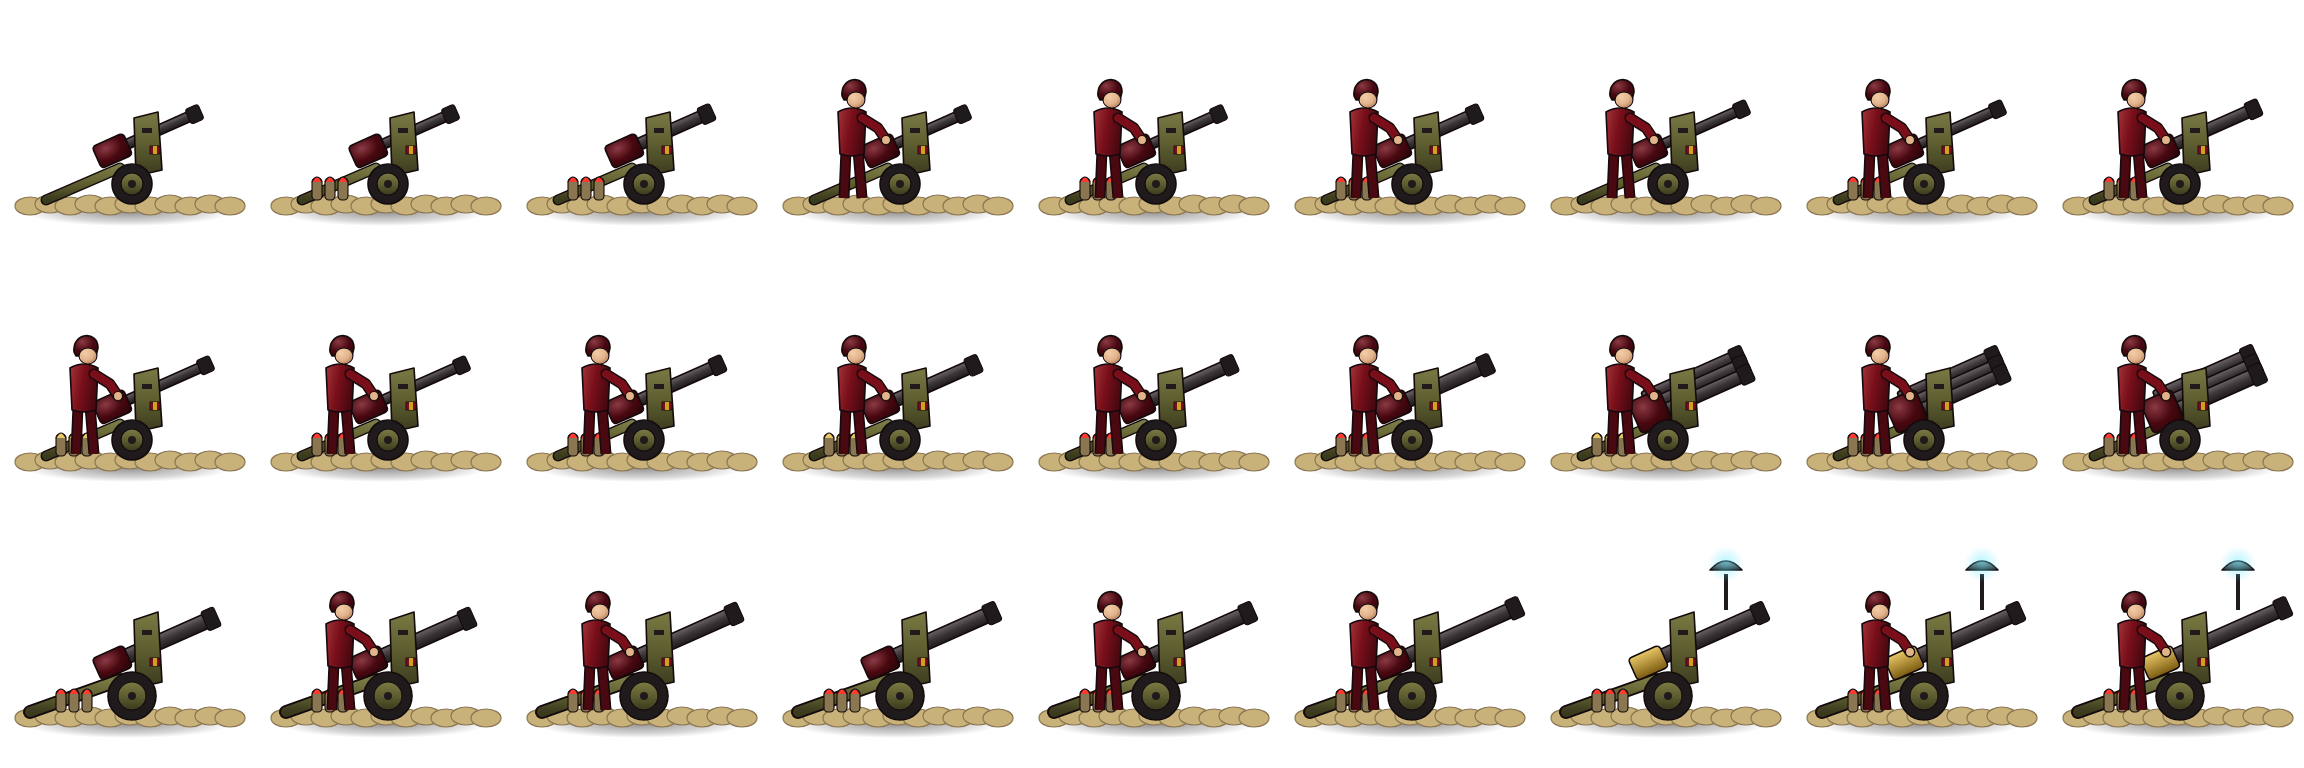
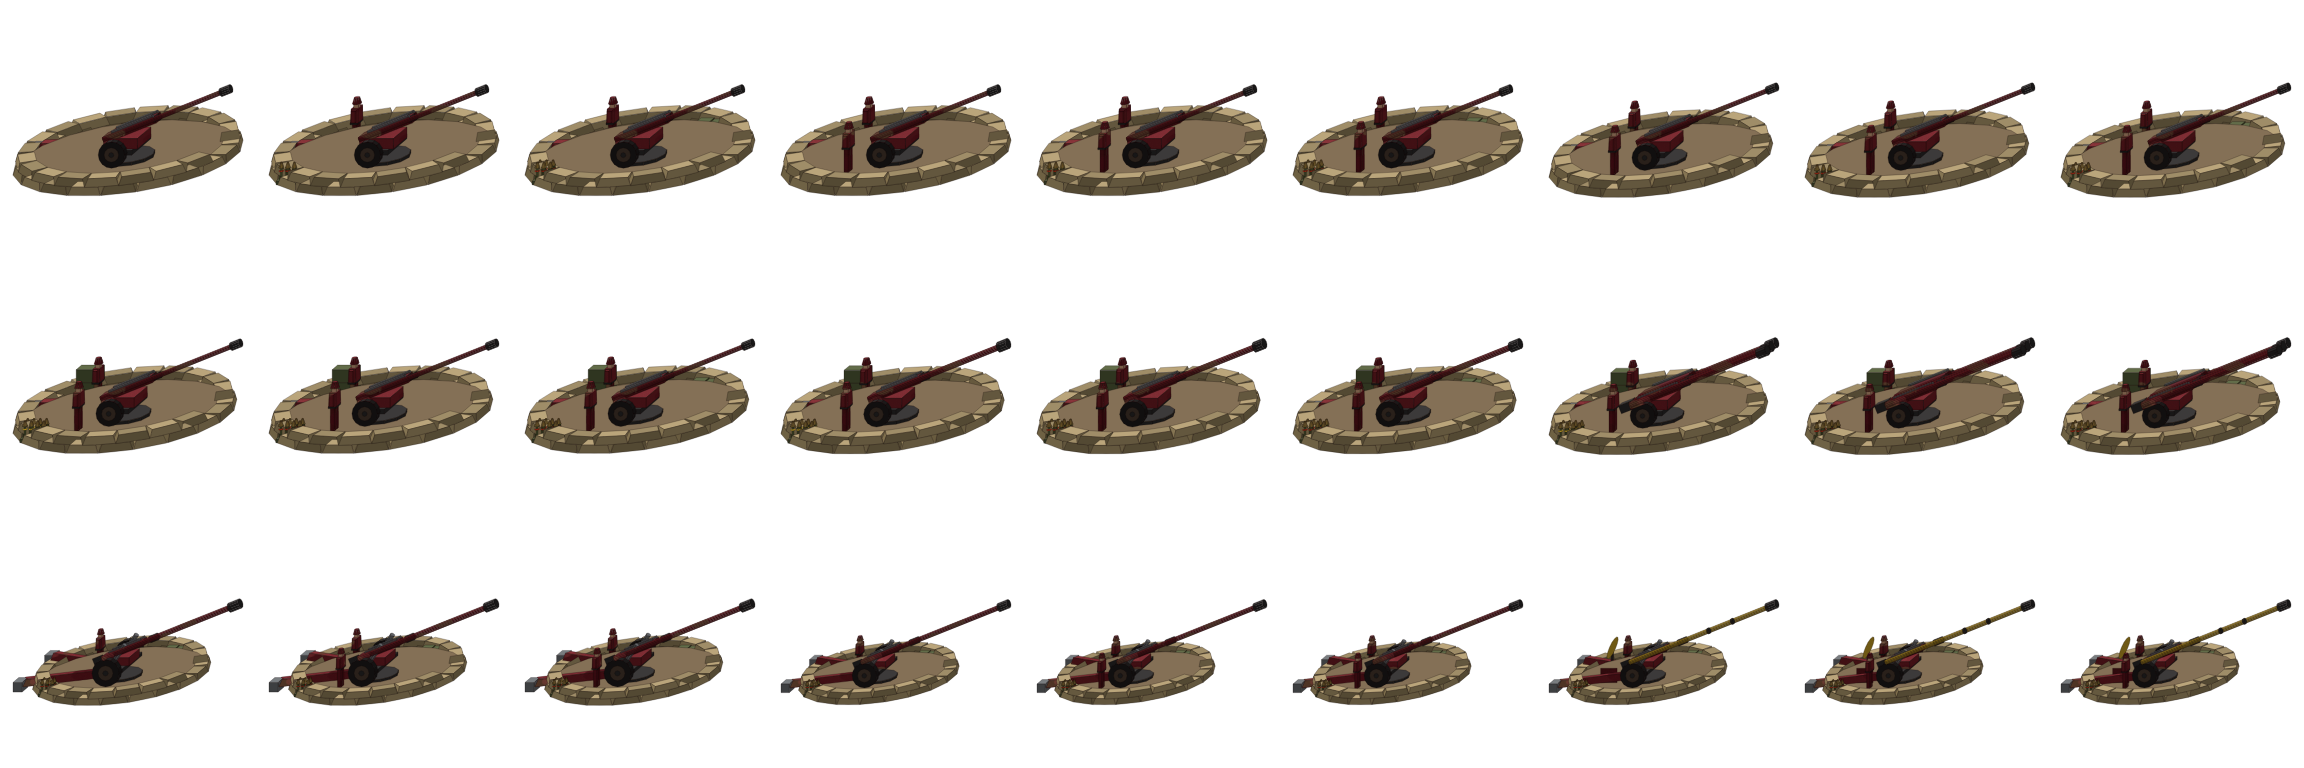
Artillerie im neuen Detailstil (alle 27 Stufen)
Claude-Session: https://claude.ai/code/session_01H2UiKssafjRzK7unKsx8yK

diff --git a/index.html b/index.html
@@ -128,6 +128,6 @@ button{touch-action:manipulation}#feld{touch-action:none}
   <div id="toast" role="status" aria-live="polite" style="position:absolute;left:570px;top:96px;transform:translateX(-50%);display:none;z-index:5;background:#2B0509;border:2px solid #C9A227;border-radius:12px;padding:12px 20px;font-weight:800;font-size:17px;color:#E8C766;white-space:nowrap"></div>
   <div id="overlay"><div class="karte" id="overlayInhalt"></div></div>
 </div>
-<script src="spiel.js?v=2026-11-20-12"></script>
+<script src="spiel.js?v=2026-11-20-13"></script>
 </body>
 </html>

diff --git a/spiel.js b/spiel.js
@@ -1,7 +1,7 @@
 // Maiskolbistan Militär-Defense – Testkarte 1 (Westkolbistan)
 // Reines JavaScript, kein Bau-Schritt. Grafiken aus dem Maiskolbistan-Info-Repo (seiten/td-ranger-sprites).
 'use strict';
-const VERSION = '2026-11-20-12';   // bei jedem Update hochzählen (auch in index.html)
+const VERSION = '2026-11-20-13';   // bei jedem Update hochzählen (auch in index.html)
 
 (() => {
   const W = 1140, H = 810, MITTE = 570;

diff --git a/README.md b/README.md
@@ -135,7 +135,7 @@ Anzeige im Spiel: Rauch-, Lawinen- und Sandsturmwolken, eingefrorene Türme (bla
 
 ## Grafikstil (Umstellung läuft)
 
-Der **Ranger** ist im neuen, detaillierteren Stil gezeichnet (nach Fotovorlagen): vorgelehnter Anschlag, Plattenträger, Helm mit Headset, Gewehr in M4-Bauart, Stofftextur und Tarnmuster, Licht von oben links. Stufen: Präzision 1 Laservisier (Strahl) · 2 Elite (Zielfernrohr, goldene Winkel) · 3 Nachtsichtgerät · 4 schweres Gewehr (langer Lauf, Zweibein) · 5 leichtes MG mit Patronenkasten. Sturm 1 Goldspitzen-Munition · 2 Waffenlicht · 3 Schulter-, Hals- und Leistenschutz · 4 Granatwerfer und Handgranaten · 5 Sturmhaube mit Visier. Der **Scharfschütze** ist ebenfalls umgestellt (kniender Anschlag, Ellbogen auf dem Knie, Gewehr in M110-Bauart): Phantom 1 Buschhut + Tarnschminke · 2 Wärmebild-Vorsatz · 3 Schalldämpfer · 4 Ghillie-Kapuze und Tarnstreifen · 5 voller Ghillie mit Maisblättern; Schwerkaliber 1 längerer Lauf · 2 .50-Gewehr mit Mündungsbremse · 3 Helm und Panzerung · 4 Leuchtpistole · 5 Laser-Gewehr. Der **Juggernaut** ebenfalls (schwere Plattenrüstung mit Visierhelm, Minigun in M134-Bauart in Hüfthöhe, Munitionsrucksack mit Gurt): Feuerwalze 1 goldene Kraft-Handschuhe · 2 goldene Gelenkdämpfer · 3 lange Läufe · 4 Power-Minigun · 5 HE (glühende Läufe, rotes Visier, Hörner); Doppelfeuer 1 goldener Tragegriff · 2 AP-Gurt (gold) · 3 zweite Minigun am Schulterarm · 4 Cyan-Energierucksack · 5 Volle Leistung (Goldkanten). Der **Railgunner** ebenfalls (Körper wie der Ranger, Schienenkanone mit Spulenringen und leuchtendem Kanal, Batteriepack; ab Geschützstellung eine Stellung hinter einer dreilagigen Sandsackmauer mit Dreibein, Schutzschild, Kondensatorbank und Generator): Schienen-Soldat 1 Kühlzellen · 2 Zielfernrohr · 3 längere Schienen · 4 Kampfanzug · 5 Gold-Spulen; Geschützstellung 1 Proto-Munition (violett) · 2 Blitzbögen · 3 Stellung · 4 Doppelrohr · 5 XRT-9000 (goldene Kondensatorbank). Das **Logistik-Depot** ebenfalls (echte Schrägansicht mit Licht von links oben und Schlagschatten: Kiesplatz mit HESCO-Wall, Fahne, Holzkisten auf Paletten, Munitionskisten, Kornsäcke): Versorgung 1 mehr Kisten und Kanister · 2 Wellblech-Lagerhalle mit Rolltor und Flutlicht · 3 Lkw mit Plane · 4 Kornsilo mit Förderrohr · 5 Staatsreserve (Tresorbau, goldenes Silo, Goldbarren); Sanität 1 Sanitätszelt · 2 Feldlazarett mit Trage · 3 Krankenwagen · 4 Rettungshubschrauber auf Landeplatz · 5 Feldkrankenhaus aus Containern (grünes Kreuz). Der **Flammenwerfer** ebenfalls (Körper wie der Ranger, Flammenrohr nach Bauart M2 mit Zündflamme, Schlauch, Rückentanks mit Druckgaskugel): Hitze 1 blaue Zündflamme · 2 größerer Werfer · 3 Napalm (orange Tanks mit Warnstreifen) · 4 M3 (drei Tanks, Schutzausrüstung) · 5 Exo-Flammenanzug (Gold, Tragegestell); Brandsatz 1 Zündflaschen am Gürtel · 2 Kanister und tropfende Düse · 3 Phosphor (weiße Tanks) · 4 Feuerwand (Breitdüse) · 5 Inferno-Werfer (Doppelrohr, Gold). Der **Raketenwerfer** ebenfalls (Körper wie der Ranger, Rohr auf der Schulter): Panzerjäger 1 roter HE-Sprengkopf · 2 Zielfernrohr · 3 SMAW+ (dickeres Rohr, Einschießgewehr) · 4 großer Tandem-Sprengkopf · 5 Javelin (Kommandoeinheit, Gold); Raketenhagel 1 Tasche · 2 Rucksack mit Reserveraketen · 3 M2 Carl (Stahlrohr mit Kühlrippen und Trichter) · 4 großer Splitterradius (drei Reserveraketen, Schutzausrüstung) · 5 Mehrfachwerfer (Kasten mit Rohren). Die **Fahrzeugfabrik** ebenfalls: jedes Fahrzeug ist ein kleines 3D-Modell in Metern nach Referenzfotos (HMMWV M1151, MaxxPro-MRAP, Minenräumpanzer Keiler, Spähwagen Fennek, Schützenpanzer Puma, Leopard 2A4 und 2A7), daraus entstehen Draufsicht (Rumpf und drehbarer Turm) und Schrägbild mit Licht von links oben und weinroter Tarnlackierung; Fabrikhalle mit Wellblechdach, Oberlichtern, offenem Tor und Vorplatz. **Effekte** ebenfalls im Detailstil (`bilder/effekte_spritesheet@2x.png`, doppelte Auflösung, Atlas-Koordinaten unverändert in 1×): Kugeln mit Luftschliere, Leuchtspur, Granaten, Mündungsfeuer mit Seitenflammen, Treffer-Funken mit Staub, Explosion in 8 Bildern (Blitz, Feuerball, Rauchpilz, Splitter, Glut), Brandfläche mit Flammenzungen, Leuchtkugel am Fallschirm, Betäubt-Sterne. Im Code gezeichnet: Flammenkegel aus vielen Flammenzungen mit Rauch und Funken, Rakete mit Leitwerk, Treibsatz und Rauchfahne, Feuerring mit Glut. Zeichengröße auf der Karte: Soldaten im Detailstil 84 px, Juggernaut 105 px, Railgun-Stellung 115 px (passend zu den Gegnern). Die übrigen Türme folgen nacheinander.
+Der **Ranger** ist im neuen, detaillierteren Stil gezeichnet (nach Fotovorlagen): vorgelehnter Anschlag, Plattenträger, Helm mit Headset, Gewehr in M4-Bauart, Stofftextur und Tarnmuster, Licht von oben links. Stufen: Präzision 1 Laservisier (Strahl) · 2 Elite (Zielfernrohr, goldene Winkel) · 3 Nachtsichtgerät · 4 schweres Gewehr (langer Lauf, Zweibein) · 5 leichtes MG mit Patronenkasten. Sturm 1 Goldspitzen-Munition · 2 Waffenlicht · 3 Schulter-, Hals- und Leistenschutz · 4 Granatwerfer und Handgranaten · 5 Sturmhaube mit Visier. Der **Scharfschütze** ist ebenfalls umgestellt (kniender Anschlag, Ellbogen auf dem Knie, Gewehr in M110-Bauart): Phantom 1 Buschhut + Tarnschminke · 2 Wärmebild-Vorsatz · 3 Schalldämpfer · 4 Ghillie-Kapuze und Tarnstreifen · 5 voller Ghillie mit Maisblättern; Schwerkaliber 1 längerer Lauf · 2 .50-Gewehr mit Mündungsbremse · 3 Helm und Panzerung · 4 Leuchtpistole · 5 Laser-Gewehr. Der **Juggernaut** ebenfalls (schwere Plattenrüstung mit Visierhelm, Minigun in M134-Bauart in Hüfthöhe, Munitionsrucksack mit Gurt): Feuerwalze 1 goldene Kraft-Handschuhe · 2 goldene Gelenkdämpfer · 3 lange Läufe · 4 Power-Minigun · 5 HE (glühende Läufe, rotes Visier, Hörner); Doppelfeuer 1 goldener Tragegriff · 2 AP-Gurt (gold) · 3 zweite Minigun am Schulterarm · 4 Cyan-Energierucksack · 5 Volle Leistung (Goldkanten). Der **Railgunner** ebenfalls (Körper wie der Ranger, Schienenkanone mit Spulenringen und leuchtendem Kanal, Batteriepack; ab Geschützstellung eine Stellung hinter einer dreilagigen Sandsackmauer mit Dreibein, Schutzschild, Kondensatorbank und Generator): Schienen-Soldat 1 Kühlzellen · 2 Zielfernrohr · 3 längere Schienen · 4 Kampfanzug · 5 Gold-Spulen; Geschützstellung 1 Proto-Munition (violett) · 2 Blitzbögen · 3 Stellung · 4 Doppelrohr · 5 XRT-9000 (goldene Kondensatorbank). Das **Logistik-Depot** ebenfalls (echte Schrägansicht mit Licht von links oben und Schlagschatten: Kiesplatz mit HESCO-Wall, Fahne, Holzkisten auf Paletten, Munitionskisten, Kornsäcke): Versorgung 1 mehr Kisten und Kanister · 2 Wellblech-Lagerhalle mit Rolltor und Flutlicht · 3 Lkw mit Plane · 4 Kornsilo mit Förderrohr · 5 Staatsreserve (Tresorbau, goldenes Silo, Goldbarren); Sanität 1 Sanitätszelt · 2 Feldlazarett mit Trage · 3 Krankenwagen · 4 Rettungshubschrauber auf Landeplatz · 5 Feldkrankenhaus aus Containern (grünes Kreuz). Der **Flammenwerfer** ebenfalls (Körper wie der Ranger, Flammenrohr nach Bauart M2 mit Zündflamme, Schlauch, Rückentanks mit Druckgaskugel): Hitze 1 blaue Zündflamme · 2 größerer Werfer · 3 Napalm (orange Tanks mit Warnstreifen) · 4 M3 (drei Tanks, Schutzausrüstung) · 5 Exo-Flammenanzug (Gold, Tragegestell); Brandsatz 1 Zündflaschen am Gürtel · 2 Kanister und tropfende Düse · 3 Phosphor (weiße Tanks) · 4 Feuerwand (Breitdüse) · 5 Inferno-Werfer (Doppelrohr, Gold). Der **Raketenwerfer** ebenfalls (Körper wie der Ranger, Rohr auf der Schulter): Panzerjäger 1 roter HE-Sprengkopf · 2 Zielfernrohr · 3 SMAW+ (dickeres Rohr, Einschießgewehr) · 4 großer Tandem-Sprengkopf · 5 Javelin (Kommandoeinheit, Gold); Raketenhagel 1 Tasche · 2 Rucksack mit Reserveraketen · 3 M2 Carl (Stahlrohr mit Kühlrippen und Trichter) · 4 großer Splitterradius (drei Reserveraketen, Schutzausrüstung) · 5 Mehrfachwerfer (Kasten mit Rohren). Die **Fahrzeugfabrik** ebenfalls: jedes Fahrzeug ist ein kleines 3D-Modell in Metern nach Referenzfotos (HMMWV M1151, MaxxPro-MRAP, Minenräumpanzer Keiler, Spähwagen Fennek, Schützenpanzer Puma, Leopard 2A4 und 2A7), daraus entstehen Draufsicht (Rumpf und drehbarer Turm) und Schrägbild mit Licht von links oben und weinroter Tarnlackierung; Fabrikhalle mit Wellblechdach, Oberlichtern, offenem Tor und Vorplatz. Die **Artillerie** ebenfalls (3D-Modell wie die Fahrzeuge: gezogene Haubitze mit angehobenem Rohr in einer Sandsackstellung): Schnellfeuer 1 Kanoniere · 2 M119+ (längeres Rohr) · 3 Munitionsgestell · 4 dickeres Rohr · 5 Dreifachrohr; Schwere Geschütze 1 HE-Granaten (rote Bänder) · 2 Munitionskisten · 3 M198 mit Spreizlafette und Ausgleichern · 4 langes Rohr · 5 Himmelsfalke (goldenes Rohr, Feuerleitradar). **Effekte** ebenfalls im Detailstil (`bilder/effekte_spritesheet@2x.png`, doppelte Auflösung, Atlas-Koordinaten unverändert in 1×): Kugeln mit Luftschliere, Leuchtspur, Granaten, Mündungsfeuer mit Seitenflammen, Treffer-Funken mit Staub, Explosion in 8 Bildern (Blitz, Feuerball, Rauchpilz, Splitter, Glut), Brandfläche mit Flammenzungen, Leuchtkugel am Fallschirm, Betäubt-Sterne. Im Code gezeichnet: Flammenkegel aus vielen Flammenzungen mit Rauch und Funken, Rakete mit Leitwerk, Treibsatz und Rauchfahne, Feuerring mit Glut. Zeichengröße auf der Karte: Soldaten im Detailstil 84 px, Juggernaut 105 px, Railgun-Stellung 115 px (passend zu den Gegnern). Die übrigen Türme folgen nacheinander.
 
 ## Turm-Paket 1 (nach TDX-Wiki)
 
